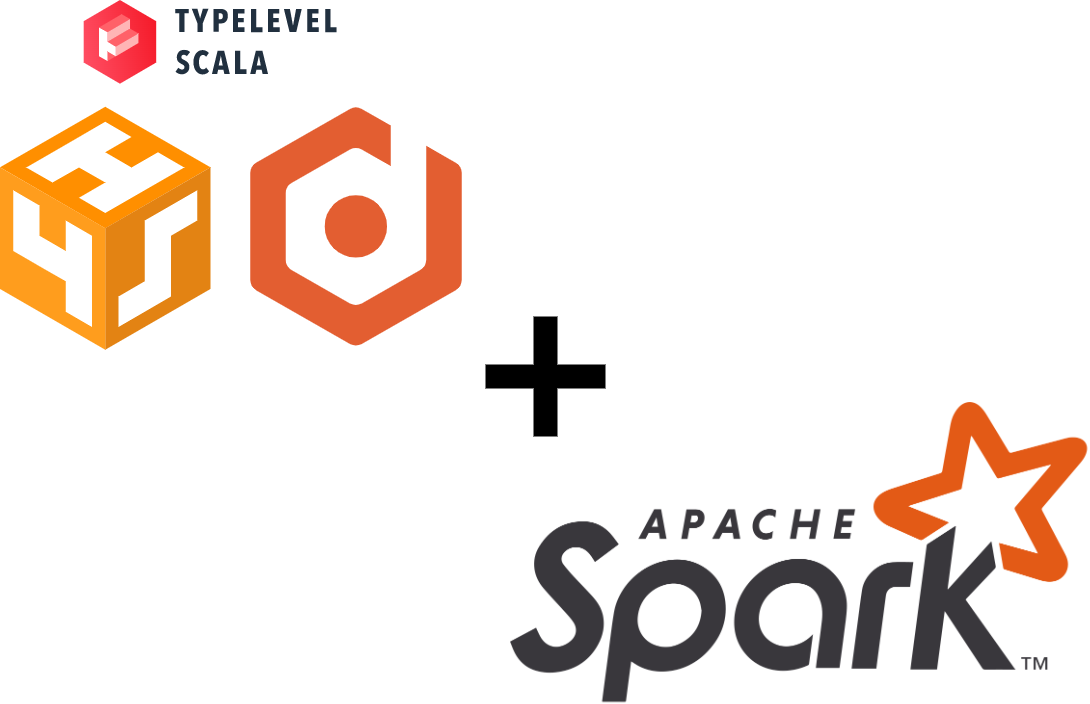
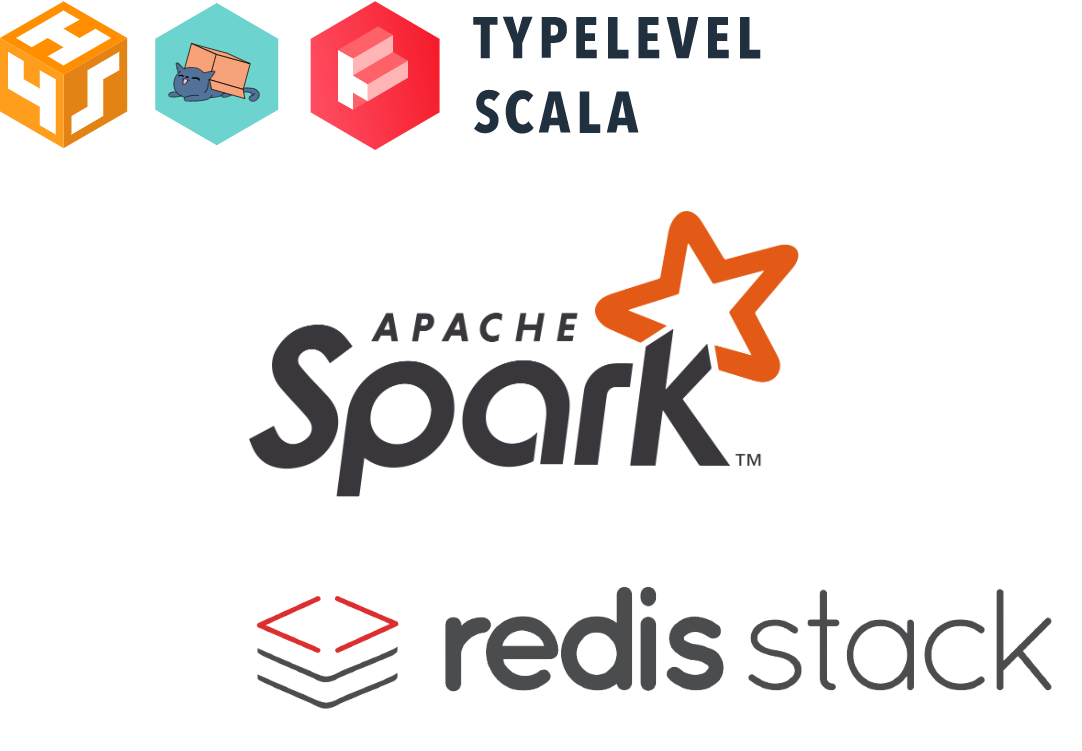
[DEV] ✨ Finished DEV redis migration + Finished DEV for whole preview Job execution (redis edition) + WIP on currently in-place UTs

diff --git a/README.md b/README.md
@@ -1,27 +1,28 @@
-# EasyEDA - Easy exploratory data analysis
+# EasyEDA - Easy fast exploratory data analysis
 
 [![Generic badge](https://img.shields.io/badge/Scala-2.13-darkred.svg?style=plastic)](https://www.scala-lang.org/)
-[![Generic badge](https://img.shields.io/badge/http4s-0.23-red.svg?style=plastic)](https://http4s.org/#)
-[![Generic badge](https://img.shields.io/badge/Doobie-1.0-orangered.svg?style=plastic)](https://tpolecat.github.io/doobie/)
+[![Generic badge](https://img.shields.io/badge/Http4s-0.23-red.svg?style=plastic)](https://http4s.org/#)
 [![Generic badge](https://img.shields.io/badge/Spark-3.3-orange.svg?style=plastic)](https://spark.apache.org/)
-[![Generic badge](https://img.shields.io/badge/SwaggerUI-4.14-green.svg?style=plastic)](https://swagger.io/)
 [![Generic badge](https://img.shields.io/badge/SBT-1.7-blue.svg?style=plastic)](https://www.scala-sbt.org/)
 [![Generic badge](https://img.shields.io/badge/OpenJDK-11-white.svg?style=plastic)](https://adoptium.net/)
+[![Generic badge](https://img.shields.io/badge/SwaggerUI-4.14-green.svg?style=plastic)](https://swagger.io/)
+[![Generic badge](https://img.shields.io/badge/Jedis-4.3-black.svg?style=plastic)](https://github.com/redis/jedis)
+[![Generic badge](https://img.shields.io/badge/RedisStack-6.2-orangered.svg?style=plastic)](https://redis.io/docs/stack/)
 
 ![stackUsed](docs/stackUsed.png)
 
 📊😌 **EasyEDA** is a REST API for doing common exploratory data analysis.
-It is powered by Typelevel microservice stack **[http4s](https://http4s.org/v0.23/docs/quickstart.html)**
-and **[Doobie](https://tpolecat.github.io/doobie/)** (with **[Cats IO](https://typelevel.org/cats-effect/)**)
-plus **[Spark](https://spark.apache.org/docs/3.3.3/)**
-providing fast asynchronous parallel request processing and **in-memory** data computation.
-It means none of your source data are saved somewhere plus everything are done on the fly 🚀🤩!
+It is powered by Typelevel stack **[http4s](https://http4s.org/v0.23/docs/quickstart.html)** with 
+**[Cats Effect](https://typelevel.org/cats-effect/)**, **[Spark](https://spark.apache.org/docs/3.3.3/)**
+and **[Redis](https://redis.io/)** providing fully vertically scaled parallel request processing
+and extremely fast **in-memory** non-persistent data manipulation & computation.
+It means none of your source data are saved somewhere and everything are done on the fly 🚀🤩!
 
 
 # Want to contribute ? 😉
 
 - [Stack used image](docs/stackUsed.png) can be directly modified via [draw.io](https://app.diagrams.net/)
-- [IntelliJ IDEA CE](https://www.jetbrains.com/idea/) was used to build the source code part
+- [IntelliJ IDEA CE](https://www.jetbrains.com/idea/) was used to build the source code
 - This [VSCode extension](https://marketplace.visualstudio.com/items?itemName=42Crunch.vscode-openapi) was used to edit the [OpenAPI documentation](src/main/resources/swagger/openapi.yaml)
 
 
